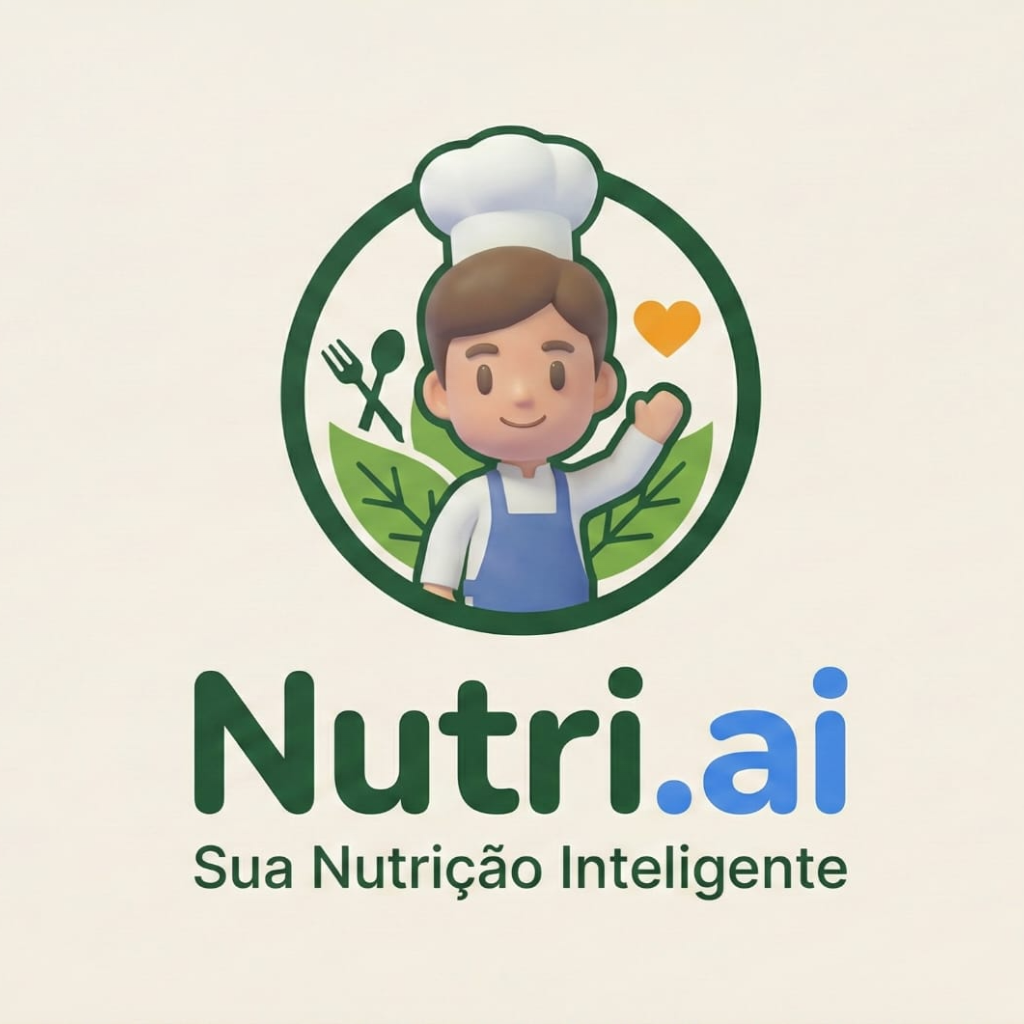
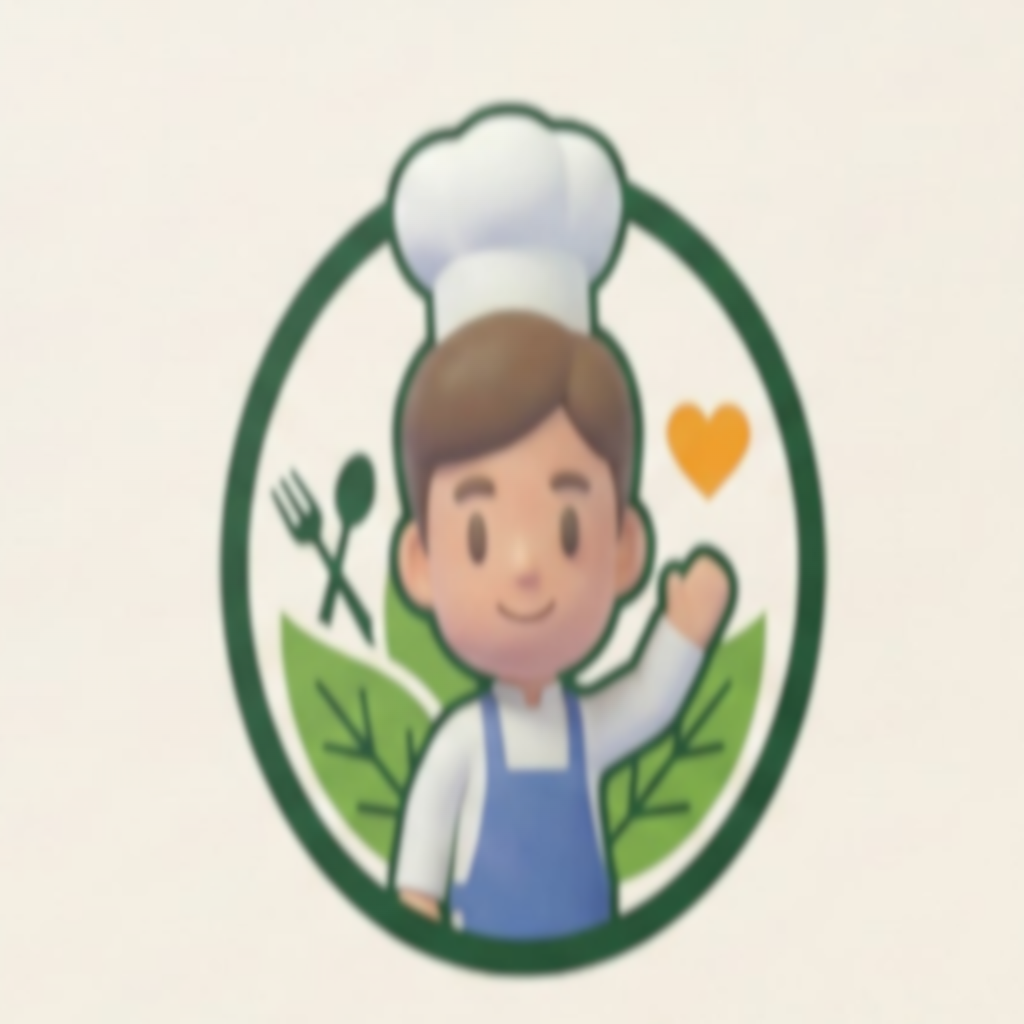
fix: Adicionar detecÃ§Ã£o automÃ¡tica de mudanÃ§a de data para reset diÃ¡rio do limite de 15 minutos e ajustar script de geraÃ§Ã£o de Ãcones

diff --git a/visualizar-icone.html b/visualizar-icone.html
@@ -1,0 +1,209 @@
+<!DOCTYPE html>
+<html lang="pt-BR">
+<head>
+    <meta charset="UTF-8">
+    <meta name="viewport" content="width=device-width, initial-scale=1.0">
+    <title>Preview do Ícone - Nutri.ai</title>
+    <style>
+        * {
+            margin: 0;
+            padding: 0;
+            box-sizing: border-box;
+        }
+        
+        body {
+            font-family: -apple-system, BlinkMacSystemFont, 'Segoe UI', Roboto, sans-serif;
+            background: linear-gradient(135deg, #667eea 0%, #764ba2 100%);
+            min-height: 100vh;
+            display: flex;
+            align-items: center;
+            justify-content: center;
+            padding: 20px;
+        }
+        
+        .container {
+            background: white;
+            border-radius: 20px;
+            padding: 40px;
+            box-shadow: 0 20px 60px rgba(0,0,0,0.3);
+            max-width: 800px;
+            width: 100%;
+        }
+        
+        h1 {
+            color: #1A4D2E;
+            margin-bottom: 10px;
+            font-size: 2em;
+        }
+        
+        .subtitle {
+            color: #666;
+            margin-bottom: 30px;
+        }
+        
+        .preview-section {
+            margin: 30px 0;
+        }
+        
+        .preview-title {
+            font-size: 1.2em;
+            color: #1A4D2E;
+            margin-bottom: 15px;
+            font-weight: 600;
+        }
+        
+        .icon-preview {
+            display: flex;
+            gap: 30px;
+            flex-wrap: wrap;
+            justify-content: center;
+            align-items: center;
+            padding: 30px;
+            background: #f5f5f5;
+            border-radius: 15px;
+        }
+        
+        .icon-item {
+            text-align: center;
+        }
+        
+        .icon-wrapper {
+            width: 120px;
+            height: 120px;
+            background: white;
+            border-radius: 26px;
+            display: flex;
+            align-items: center;
+            justify-content: center;
+            box-shadow: 0 4px 12px rgba(0,0,0,0.1);
+            margin-bottom: 10px;
+            position: relative;
+        }
+        
+        .icon-wrapper.round {
+            border-radius: 50%;
+        }
+        
+        .icon-wrapper.squircle {
+            border-radius: 30%;
+        }
+        
+        .icon-wrapper img {
+            width: 85%;
+            height: 85%;
+            object-fit: contain;
+        }
+        
+        .icon-label {
+            font-size: 0.9em;
+            color: #666;
+            font-weight: 500;
+        }
+        
+        .info-box {
+            background: #F0FDF4;
+            border-left: 4px solid #1A4D2E;
+            padding: 20px;
+            border-radius: 8px;
+            margin: 20px 0;
+        }
+        
+        .info-box h3 {
+            color: #1A4D2E;
+            margin-bottom: 10px;
+        }
+        
+        .info-box ul {
+            margin-left: 20px;
+            color: #555;
+            line-height: 1.8;
+        }
+        
+        .specs {
+            display: grid;
+            grid-template-columns: repeat(auto-fit, minmax(200px, 1fr));
+            gap: 15px;
+            margin: 20px 0;
+        }
+        
+        .spec-item {
+            background: #f9f9f9;
+            padding: 15px;
+            border-radius: 8px;
+        }
+        
+        .spec-item strong {
+            color: #1A4D2E;
+            display: block;
+            margin-bottom: 5px;
+        }
+    </style>
+</head>
+<body>
+    <div class="container">
+        <h1>🍎 Preview do Ícone - Nutri.ai</h1>
+        <p class="subtitle">Como o ícone aparecerá na tela inicial do Android</p>
+        
+        <div class="preview-section">
+            <div class="preview-title">Formatos de Exibição:</div>
+            <div class="icon-preview">
+                <div class="icon-item">
+                    <div class="icon-wrapper">
+                        <img src="android/app/src/main/res/mipmap-xxxhdpi/ic_launcher.png" alt="Ícone Quadrado" id="iconImg">
+                    </div>
+                    <div class="icon-label">Quadrado (Padrão)</div>
+                </div>
+                
+                <div class="icon-item">
+                    <div class="icon-wrapper round">
+                        <img src="android/app/src/main/res/mipmap-xxxhdpi/ic_launcher_round.png" alt="Ícone Redondo">
+                    </div>
+                    <div class="icon-label">Redondo</div>
+                </div>
+                
+                <div class="icon-item">
+                    <div class="icon-wrapper squircle">
+                        <img src="android/app/src/main/res/mipmap-xxxhdpi/ic_launcher.png" alt="Ícone Squircle">
+                    </div>
+                    <div class="icon-label">Squircle (Adaptativo)</div>
+                </div>
+            </div>
+        </div>
+        
+        <div class="info-box">
+            <h3>ℹ Área Segura Aplicada</h3>
+            <p>O ícone foi gerado com <strong>85% do tamanho total</strong>, garantindo que todo o conteúdo importante (chef, folhas, garfo/faca, coração) fique visível mesmo quando o Android aplicar diferentes máscaras de forma.</p>
+        </div>
+        
+        <div class="specs">
+            <div class="spec-item">
+                <strong>Tamanho Base:</strong>
+                512x512 pixels
+            </div>
+            <div class="spec-item">
+                <strong>Área Segura:</strong>
+                85% centralizado
+            </div>
+            <div class="spec-item">
+                <strong>Formatos Gerados:</strong>
+                Quadrado, Redondo, Adaptativo
+            </div>
+            <div class="spec-item">
+                <strong>Densidades:</strong>
+                mdpi, hdpi, xhdpi, xxhdpi, xxxhdpi
+            </div>
+        </div>
+        
+        <div class="info-box">
+            <h3>📱 O que verá no dispositivo:</h3>
+            <ul>
+                <li>O chef centralizado com seu chapéu branco</li>
+                <li>As folhas verdes ao redor</li>
+                <li>O garfo e faca estilizados</li>
+                <li>O coração laranja próximo ao chef</li>
+                <li>Tudo visível dentro da área segura, sem cortes</li>
+            </ul>
+        </div>
+    </div>
+</body>
+</html>

diff --git a/components/LiveConversation.tsx b/components/LiveConversation.tsx
@@ -48,6 +48,7 @@ const LiveConversation: React.FC<LiveConversationProps> = ({ onClose, userProfil
 
   // Timer State for 15 min limit - Load from localStorage on mount
   const [secondsActive, setSecondsActive] = useState(() => loadTimeUsed());
+  const [currentDate, setCurrentDate] = useState(() => new Date().toISOString().split('T')[0]);
   const LIMIT_SECONDS = 15 * 60; // 15 Minutes
   const isLimitReached = secondsActive >= LIMIT_SECONDS;
 
@@ -142,6 +143,27 @@ const LiveConversation: React.FC<LiveConversationProps> = ({ onClose, userProfil
     }
     return () => clearInterval(interval);
   }, [isConnected, isLimitReached]);
+
+  // Check if date changed (midnight reset) - Reset timer if new day
+  useEffect(() => {
+    const checkDateChange = () => {
+      const today = new Date().toISOString().split('T')[0];
+      if (today !== currentDate) {
+        // New day detected - reset timer
+        setCurrentDate(today);
+        setSecondsActive(0);
+        // Clear old day's data is optional, but new day will use new key anyway
+      }
+    };
+    
+    // Check immediately
+    checkDateChange();
+    
+    // Check every minute to detect date change
+    const dateCheckInterval = setInterval(checkDateChange, 60000);
+    
+    return () => clearInterval(dateCheckInterval);
+  }, [currentDate]);
 
   // Save time when component unmounts or when limit is reached
   useEffect(() => {
